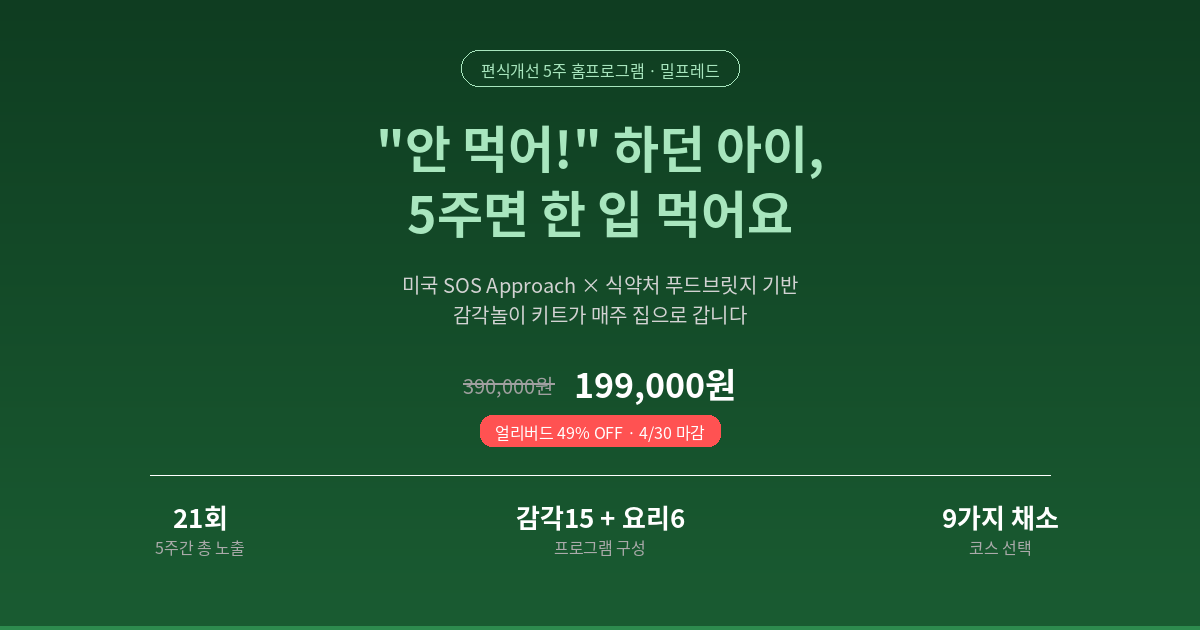
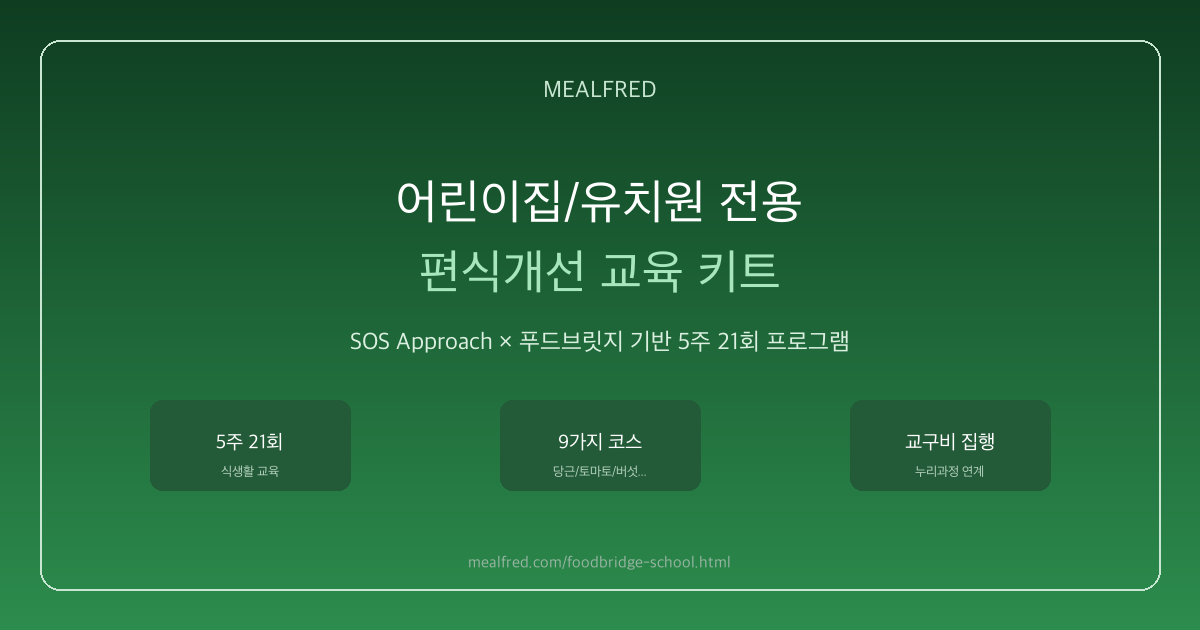
OG 이미지+메타 기관용으로 전면 교체
- og-school.png: 기관용 전용 이미지 (어린이집/유치원 전용 편식개선 교육 키트)
- og:title: "어린이집/유치원 전용 편식개선 교육 키트 — 밀프레드"
- og:description: SOS Approach × 푸드브릿지 + 교구비 집행 + 매주 배송
- title: 어린이집/유치원 기관용

diff --git a/foodbridge-school.html b/foodbridge-school.html
@@ -3,20 +3,20 @@
 <head>
 <meta charset="UTF-8">
 <meta name="viewport" content="width=device-width, initial-scale=1.0">
-<title>밀프레드 식생활 교육 프로그램 — 유치원 | 5주 21회</title>
-<meta name="description" content="누리과정 연계 5주 21회, 교구비로 집행 가능. 준비물 없이 매주 배송.">
+<title>밀프레드 식생활 교육 프로그램 — 어린이집/유치원 기관용 | 5주 21회</title>
+<meta name="description" content="어린이집/유치원 전용 편식개선 교육 키트. SOS Approach 기반 5주 21회. 교구비 집행 가능. 준비물 없이 매주 배송.">
 
 <!-- Open Graph / KakaoTalk 미리보기 최적화 -->
-<meta property="og:title" content="편식 고민하는 학부모에게 답을 주는 유치원">
-<meta property="og:description" content="누리과정 연계 5주 21회, 교구비로 집행 가능. 준비물 없이 매주 배송.">
+<meta property="og:title" content="어린이집/유치원 전용 편식개선 교육 키트 — 밀프레드">
+<meta property="og:description" content="SOS Approach × 푸드브릿지 기반 5주 21회 식생활 교육 프로그램. 교구비 집행 가능. 조리완료 키트로 준비물 없이 매주 배송됩니다.">
 <meta property="og:image" content="https://www.mealfred.com/og-school.png">
 <meta property="og:url" content="https://www.mealfred.com/foodbridge-school.html">
 <meta property="og:type" content="website">
-<meta property="og:site_name" content="밀프레드 식생활 교육 프로그램">
+<meta property="og:site_name" content="밀프레드 — 어린이집/유치원 식생활 교육">
 <!-- Twitter Card -->
 <meta name="twitter:card" content="summary_large_image">
-<meta name="twitter:title" content="편식 고민하는 학부모에게 답을 주는 유치원">
-<meta name="twitter:description" content="누리과정 연계 5주 21회, 교구비로 집행 가능. 준비물 없이 매주 배송.">
+<meta name="twitter:title" content="어린이집/유치원 전용 편식개선 교육 키트 — 밀프레드">
+<meta name="twitter:description" content="SOS Approach × 푸드브릿지 기반 5주 21회. 교구비 집행 가능. 매주 배송.">
 <meta name="twitter:image" content="https://www.mealfred.com/og-school.png">
 
 <!-- Google Analytics -->
